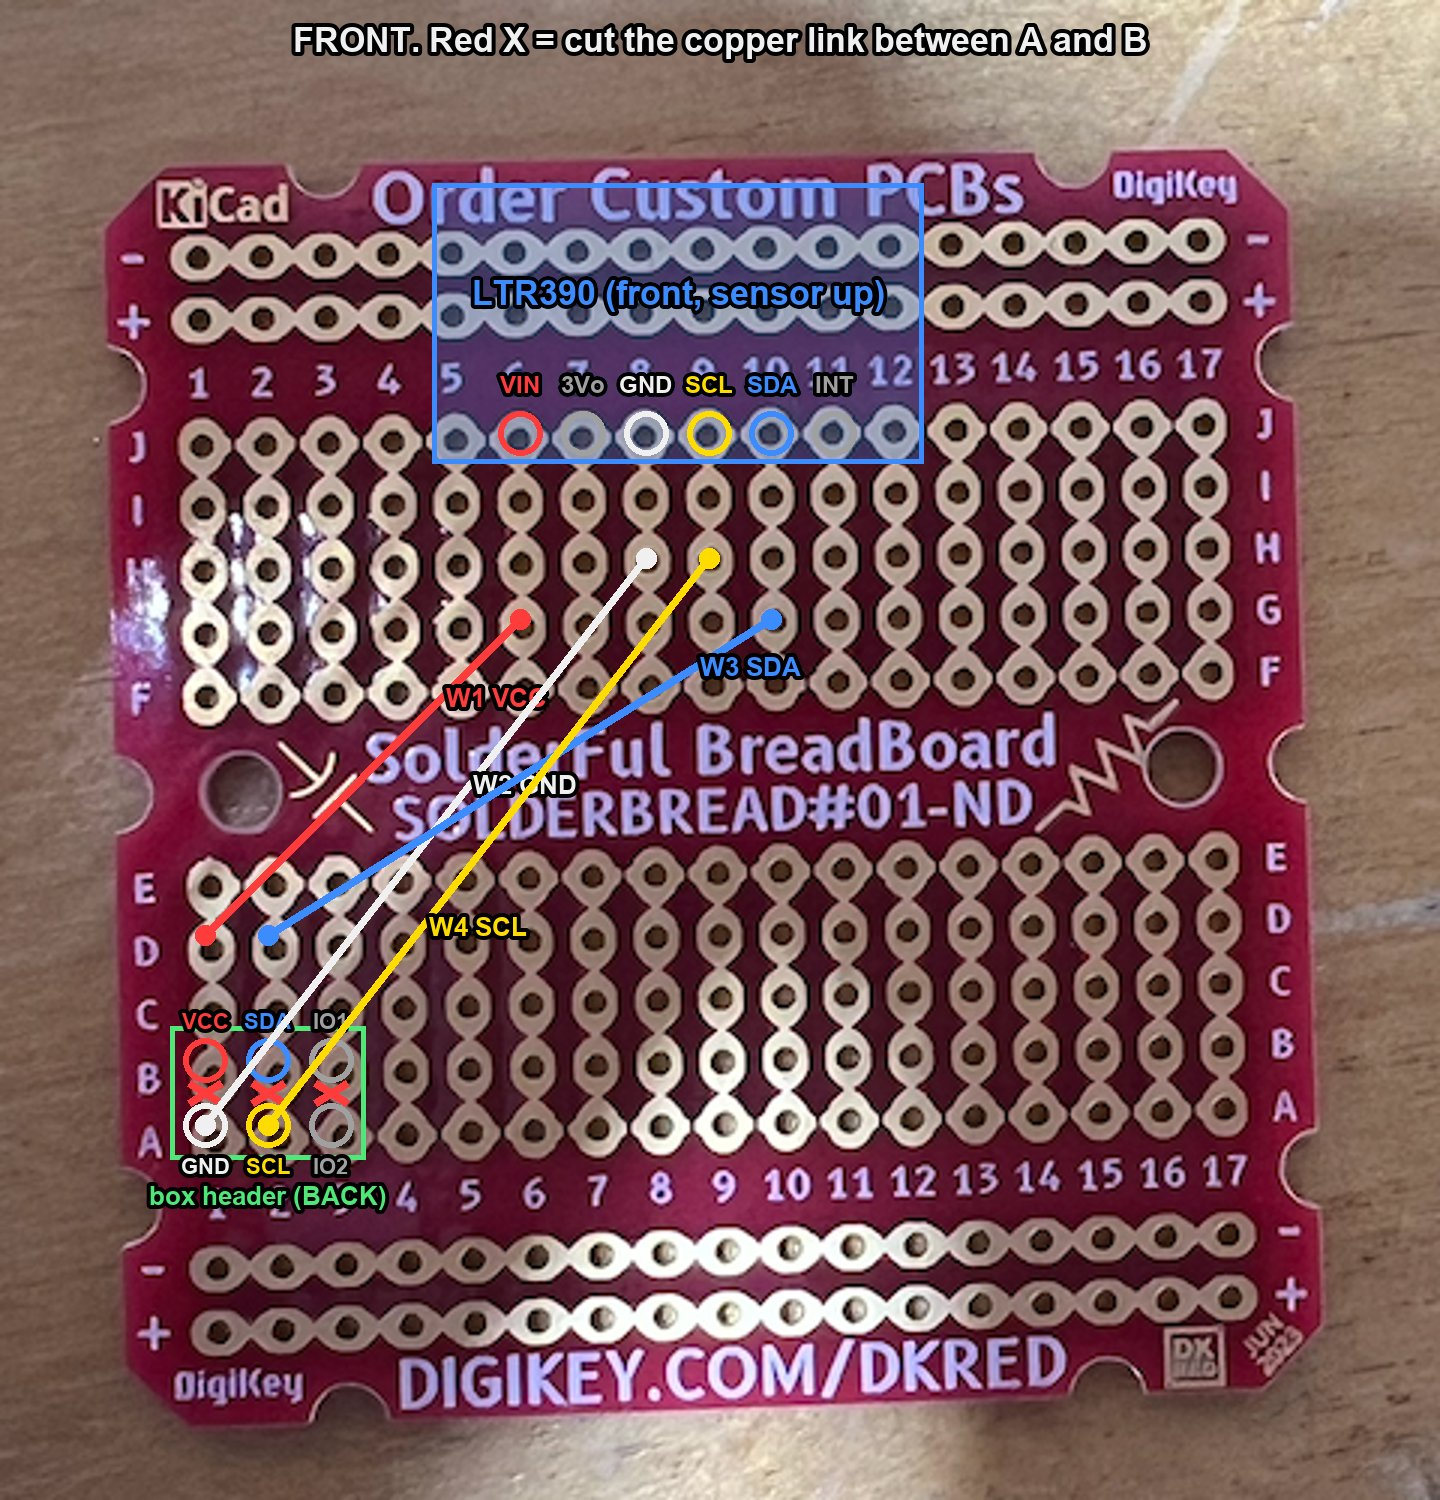
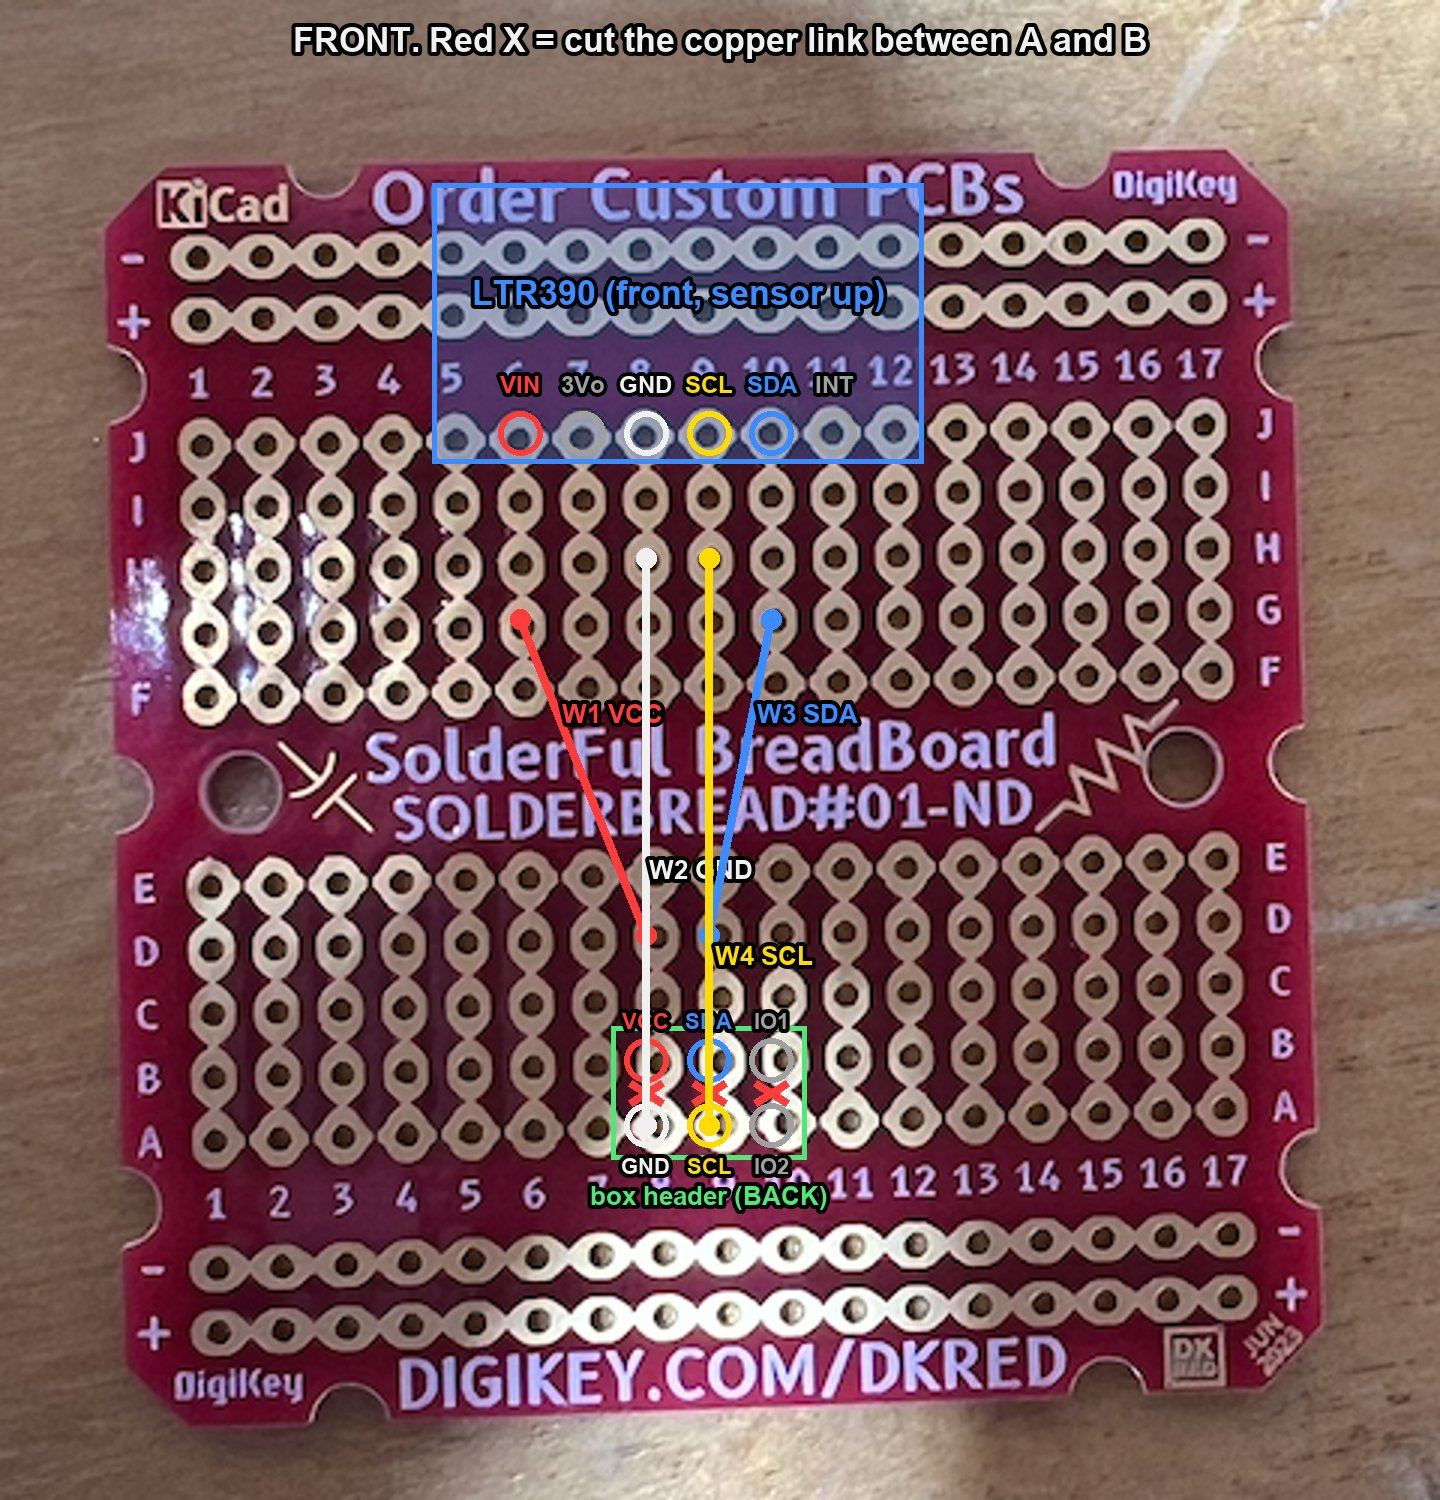
Sun SAO UV-only: center the box header (columns 8-10)

Changed region(s): [[0.0938, 0.368, 0.5938, 0.828], [0.25, 0.4907, 0.2812, 0.5213], [0.2188, 0.5213, 0.25, 0.552]]

diff --git a/hardware/sun_sao/UV_ONLY.md b/hardware/sun_sao/UV_ONLY.md
@@ -16,19 +16,21 @@ This layout uses no rails.
 
 Standard SAO pinout, with VCC top left as checked on the badge. **GND is directly below VCC.**
 
-| | col 1 | col 2 | col 3 |
+| | col 8 | col 9 | col 10 |
 |---|---|---|---|
 | row B (top) | VCC | SDA | GPIO1 |
 | row A (bottom) | GND | SCL | GPIO2 |
 
-The header goes on the **back**, with its pins in B1-B3 and A1-A3, soldered on the front.
+The header goes on the **back**, centered on the board (columns 8-10, under the middle of the
+LTR390), with its pins in B8-B10 and A8-A10, soldered on the front. That centers the add-on on the
+badge connector.
 
 ## Build
 
-1. **Cut 3 links** on the front, between rows A and B in columns 1, 2 and 3 (red X in the photo).
+1. **Cut 3 links** on the front, between rows A and B in columns 8, 9 and 10 (red X in the photo).
    Without the cuts, VCC/GND, SDA/SCL and GPIO1/GPIO2 would be shorted in pairs.
-   Check: B1-A1, B2-A2 and B3-A3 must **not** beep.
-2. **Box header** on the back: VCC pin in **B1**, GND in **A1**, key facing the same way as on the
+   Check: B8-A8, B9-A9 and B10-A10 must **not** beep.
+2. **Box header** on the back: VCC pin in **B8**, GND in **A8**, key facing the same way as on the
    badge. Solder on the front.
 3. **LTR390** on the front, sensor side up, pins in row **J**: VIN 6, 3Vo 7, GND 8, SCL 9, SDA 10,
    INT 11. Its board overhangs the top edge.
@@ -36,18 +38,18 @@ The header goes on the **back**, with its pins in B1-B3 and A1-A3, soldered on t
 
 | Wire | From | To | Net |
 |---|---|---|---|
-| W1 | D1 (column 1 strip, header VCC) | G6 (LTR VIN) | 3.3 V |
-| W2 | A1 (header GND pin) | H8 (LTR GND) | GND |
-| W3 | D2 (column 2 strip, header SDA) | G10 (LTR SDA) | SDA |
-| W4 | A2 (header SCL pin) | H9 (LTR SCL) | SCL |
+| W1 | D8 (column 8 strip, header VCC) | G6 (LTR VIN) | 3.3 V |
+| W2 | A8 (header GND pin) | H8 (LTR GND) | GND |
+| W3 | D9 (column 9 strip, header SDA) | G10 (LTR SDA) | SDA |
+| W4 | A9 (header SCL pin) | H9 (LTR SCL) | SCL |
 
 ```mermaid
 flowchart LR
     subgraph HDR["Box header (back), SAO2"]
-        VCC["VCC B1 (3.3V)"]
-        GND["GND A1"]
-        SDA["SDA B2 (GPIO17)"]
-        SCL["SCL A2 (GPIO18)"]
+        VCC["VCC B8 (3.3V)"]
+        GND["GND A8"]
+        SDA["SDA B9 (GPIO17)"]
+        SCL["SCL A9 (GPIO18)"]
     end
     subgraph UV["LTR390 #4831, addr 0x53"]
         VIN["VIN col 6"]
@@ -63,10 +65,11 @@ flowchart LR
 
 ## Checks before plugging in (continuity, nothing powered)
 
-1. A1 to B1, A2 to B2, A3 to B3: **no** beep (cuts done).
-2. VCC (B1) to GND (A1): **no** beep.
-3. SDA (B2) to SCL (A2): **no** beep.
-4. B1 to the LTR's VIN pin, A1 to its GND pin, B2 to its SDA pin, A2 to its SCL pin: beep.
+1. A8 to B8, A9 to B9, A10 to B10: **no** beep (cuts done).
+2. VCC (B8) to GND (A8): **no** beep.
+3. SDA (B9) to SCL (A9): **no** beep.
+4. B8 to the LTR's VIN pin, A8 to its GND pin, B9 to its SDA pin, A9 to its SCL pin: beep.
+   W2 runs up column 8 over the VCC strip: use insulated wire and check B8 to A8 again after it is in.
 
 ## After plugging in
 
